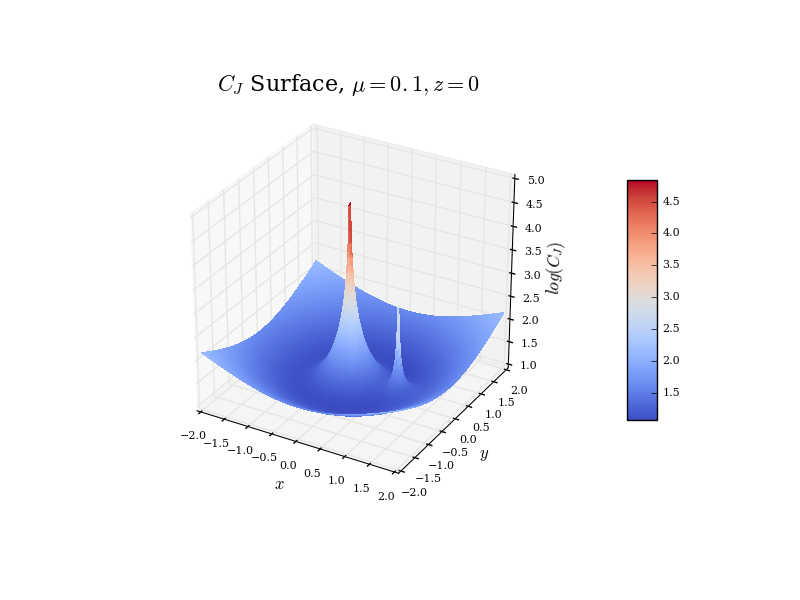
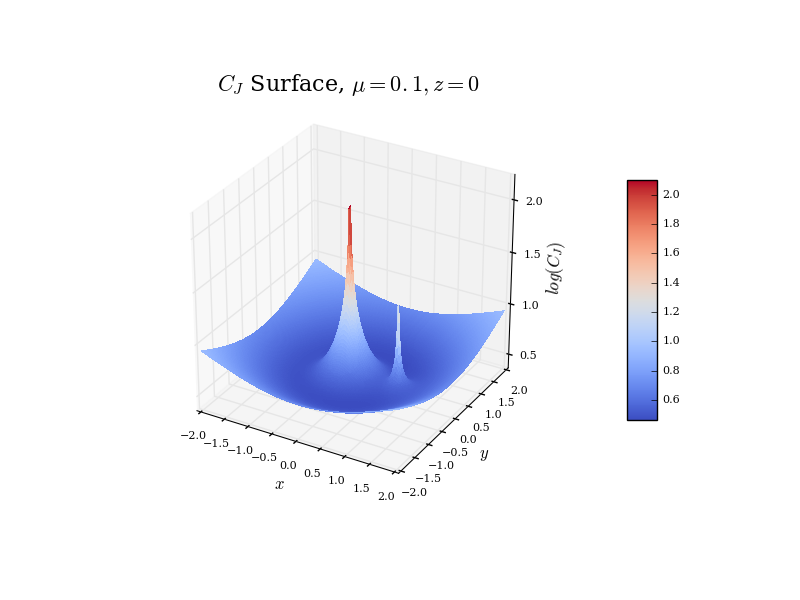
log10

diff --git a/src/hill_surf.py b/src/hill_surf.py
@@ -130,7 +130,7 @@ ax3 = fig3.add_subplot(111, projection='3d')
 bbox = (-2.0, 2.0)
 A = np.linspace(bbox[0], bbox[1], 200)
 X, Y = np.meshgrid(A, A)
-Z = np.log((Hill_Surf_Cj_xy(Hill_Surf_n, Hill_Surf_Miu))(X, Y))
+Z = np.log10((Hill_Surf_Cj_xy(Hill_Surf_n, Hill_Surf_Miu))(X, Y))
 surf = ax3.plot_surface(X, Y, Z, rstride=1, cstride=1, cmap=plt.cm.coolwarm,
                         linewidth=0, antialiased=False)
 cbar = plt.colorbar(surf, shrink=0.5, aspect=8)
